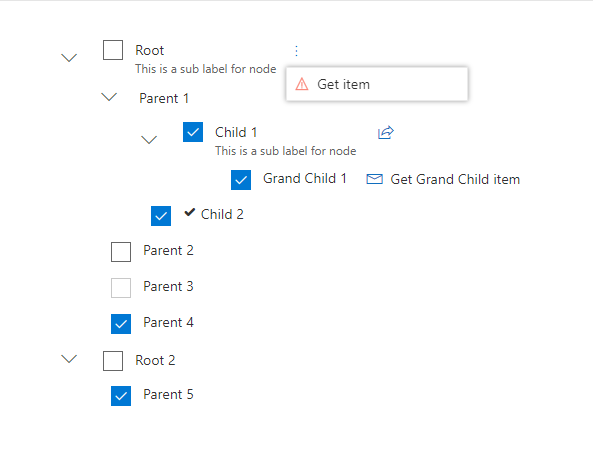
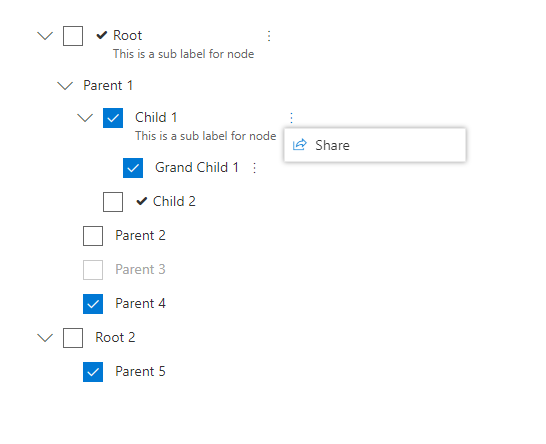
Bug fix and updation of documenatatoin
Bug fix - " selectionMode: SelectionMode.None," and showcheckbox is false.... it was still allowing the user to select items....

Updating screenshots

diff --git a/SPFx/TreeView/src/webparts/treeView/components/TreeItem.tsx b/SPFx/TreeView/src/webparts/treeView/components/TreeItem.tsx
@@ -160,7 +160,7 @@ export default class TreeItem extends React.Component<ITreeItemProps, ITreeItemS
         // Default rendering of tree item
         <React.Fragment>
           {
-            item.selectable == false && !item.children &&
+           this.props.showCheckboxes && item.selectable == false && !item.children &&
             <span className={styles.blankspace}>&nbsp;</span>
           }
           {
@@ -174,11 +174,13 @@ export default class TreeItem extends React.Component<ITreeItemProps, ITreeItemS
           <div
             className={styles.labels}
             onClick={(e) => {
+              debugger;
+              if (this.props.selectionMode != SelectionMode.None && item.selectable != false) {
               e.stopPropagation();
               if (!item.disabled) {
                 this._itemSelected(e, !this.state.selected);
               }
-            }}>
+            }}}>
             <span>{item.label}</span>
             {
               // Render sublabel
@@ -280,11 +282,12 @@ export default class TreeItem extends React.Component<ITreeItemProps, ITreeItemS
             })}
             style={contentStyles}
             onClick={(e) => {
+              if (this.props.selectionMode != SelectionMode.None && treeItem.selectable != false) {
               e.stopPropagation();
               if (!treeItem.disabled && e.currentTarget === e.target) {
                 this._itemSelected(e, !this.state.selected);
               }
-            }}
+            }}}
           >
             {
               // Render checkbox (if item is selectable, Selection mode is not None, and showCheckboxes property is set to true)

diff --git a/SPFx/TreeView/src/webparts/treeView/TreeViewWebPart.ts b/SPFx/TreeView/src/webparts/treeView/TreeViewWebPart.ts
@@ -58,6 +58,7 @@ export default class TreeViewWebPart extends BaseClientSideWebPart<ITreeViewWebP
                     label: "Child 1",
                     subLabel: "This is a sub label for node",
                     actions: [{
+                      title:"Share",
                       iconProps: {
                         iconName: 'Share'
                       },

diff --git a/SPFx/TreeView/README.md b/SPFx/TreeView/README.md
@@ -14,6 +14,10 @@ Here is an example of the control in action:
 
 ![Tree View control](assets/withoutcheckbox.png)
 
+**Without check boxes, and selection mode is multiple**
+
+![Tree View control](assets/withoutcheckbox_selectedmode.png)
+
 ## How to use this control in your solutions
 
 - Check that you installed the `@pnp/spfx-controls-react` dependency. Check out the [getting started](../../#getting-started) page for more information about installing the dependency.
@@ -136,41 +140,22 @@ Specifies the selection mode of tree item.
 | Multiple |
 | None     |
 
-## Example of array of tree items used to render control as in first screenshot
+## Example of array of tree items used to render control as in 2nd screenshot
 
 ```typescript
 items: [
-  {
-    key: "R1",
-    label: "Root",
-    subLabel: "This is a sub label for node",
-    iconProps: skypeCheckIcon,
-    actions: [{
-      title: "Get item",
-      iconProps: {
-        iconName: 'Warning',
-        style: {
-          color: 'salmon',
-        },
-      },
-      id: "GetItem",
-      actionCallback: async (treeItem: ITreeItem) => {
-        console.log(treeItem);
-      }
-    }],
-    children: [
-      {
-        key: "1",
-        label: "Parent 1",
-        selectable: false,
-        children: [
           {
-            key: "3",
-            label: "Child 1",
+            key: "R1",
+            label: "Root",
             subLabel: "This is a sub label for node",
+            iconProps: skypeCheckIcon,
             actions: [{
+              title: "Get item",
               iconProps: {
-                iconName: 'Share'
+                iconName: 'Warning',
+                style: {
+                  color: 'salmon',
+                },
               },
               id: "GetItem",
               actionCallback: async (treeItem: ITreeItem) => {
@@ -179,54 +164,74 @@ items: [
             }],
             children: [
               {
-                key: "gc1",
-                label: "Grand Child 1",
-                actions: [{
-                  title: "Get Grand Child item",
-                  iconProps: {
-                    iconName: 'Mail'
+                key: "1",
+                label: "Parent 1",
+                selectable: false,
+                children: [
+                  {
+                    key: "3",
+                    label: "Child 1",
+                    subLabel: "This is a sub label for node",
+                    actions: [{
+                      title:"Share",
+                      iconProps: {
+                        iconName: 'Share'
+                      },
+                      id: "GetItem",
+                      actionCallback: async (treeItem: ITreeItem) => {
+                        console.log(treeItem);
+                      }
+                    }],
+                    children: [
+                      {
+                        key: "gc1",
+                        label: "Grand Child 1",
+                        actions: [{
+                          title: "Get Grand Child item",
+                          iconProps: {
+                            iconName: 'Mail'
+                          },
+                          id: "GetItem",
+                          actionCallback: async (treeItem: ITreeItem) => {
+                            console.log(treeItem);
+                          }
+                        }]
+                      }
+                    ]
                   },
-                  id: "GetItem",
-                  actionCallback: async (treeItem: ITreeItem) => {
-                    console.log(treeItem);
+                  {
+                    key: "4",
+                    label: "Child 2",
+                    iconProps: skypeCheckIcon
                   }
-                }]
+                ]
+              },
+              {
+                key: "2",
+                label: "Parent 2"
+              },
+              {
+                key: "5",
+                label: "Parent 3",
+                disabled: true
+              },
+              {
+                key: "6",
+                label: "Parent 4",
+                selectable: true
               }
             ]
           },
           {
-            key: "4",
-            label: "Child 2",
-            iconProps: skypeCheckIcon
+            key: "R2",
+            label: "Root 2",
+            children: [
+              {
+                key: "8",
+                label: "Parent 5"
+              }
+            ]
           }
         ]
-      },
-      {
-        key: "2",
-        label: "Parent 2"
-      },
-      {
-        key: "5",
-        label: "Parent 3",
-        disabled: true
-      },
-      {
-        key: "6",
-        label: "Parent 4",
-        selectable: true
-      }
-    ]
-  },
-  {
-    key: "R2",
-    label: "Root 2",
-    children: [
-      {
-        key: "8",
-        label: "Parent 5"
-      }
-    ]
-  }
-]
 ```
 
